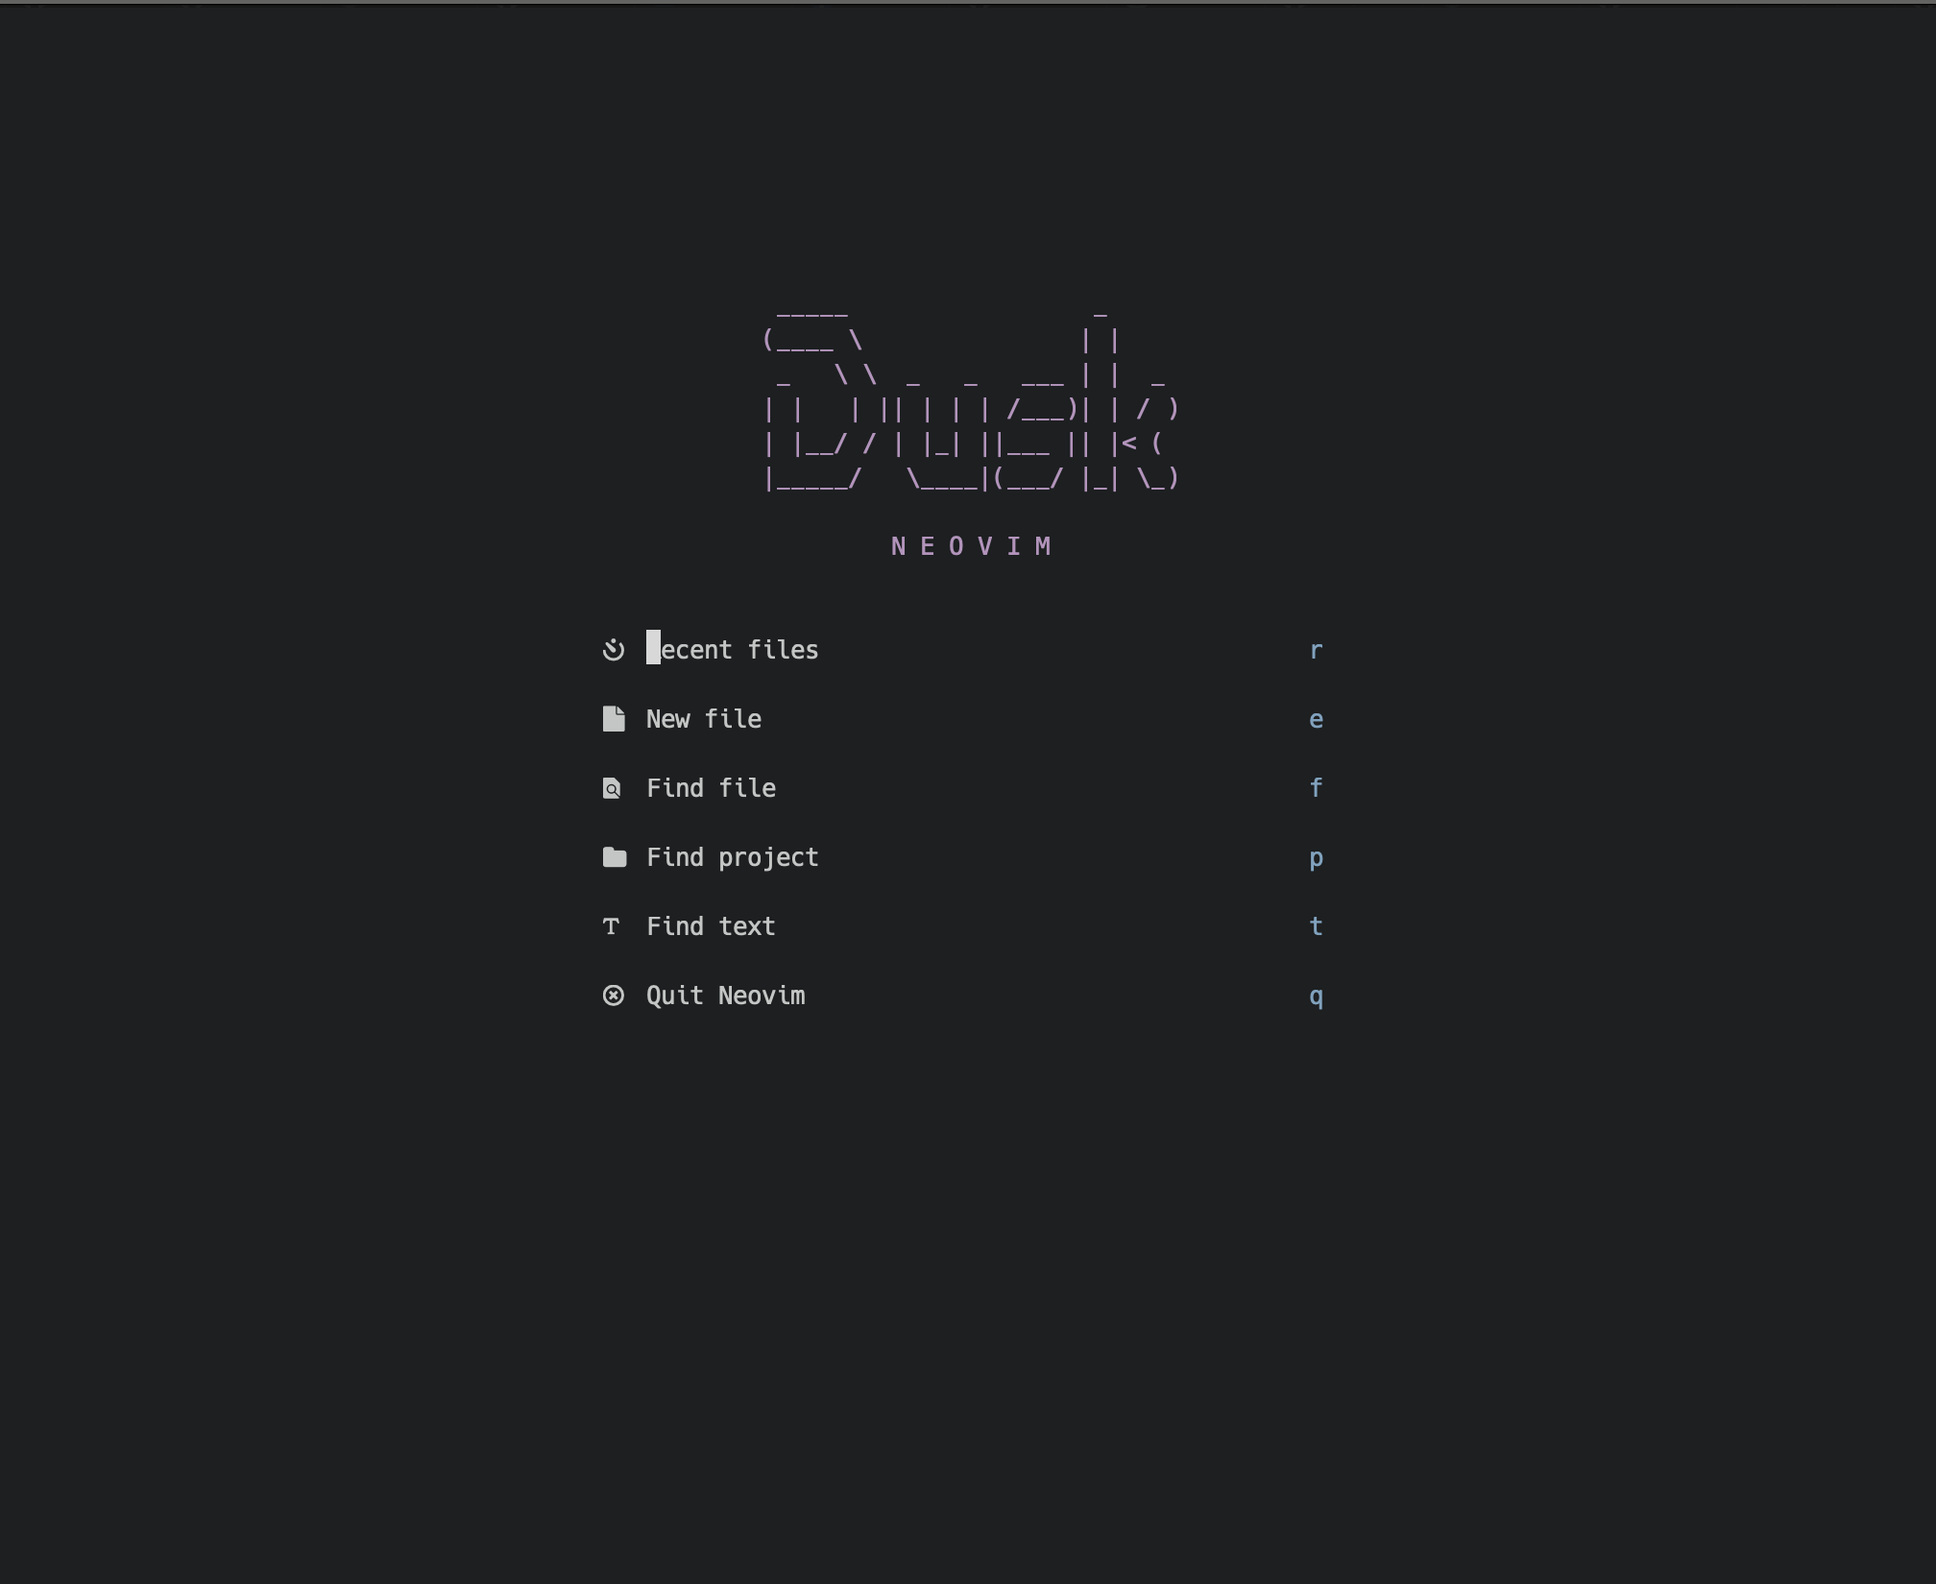
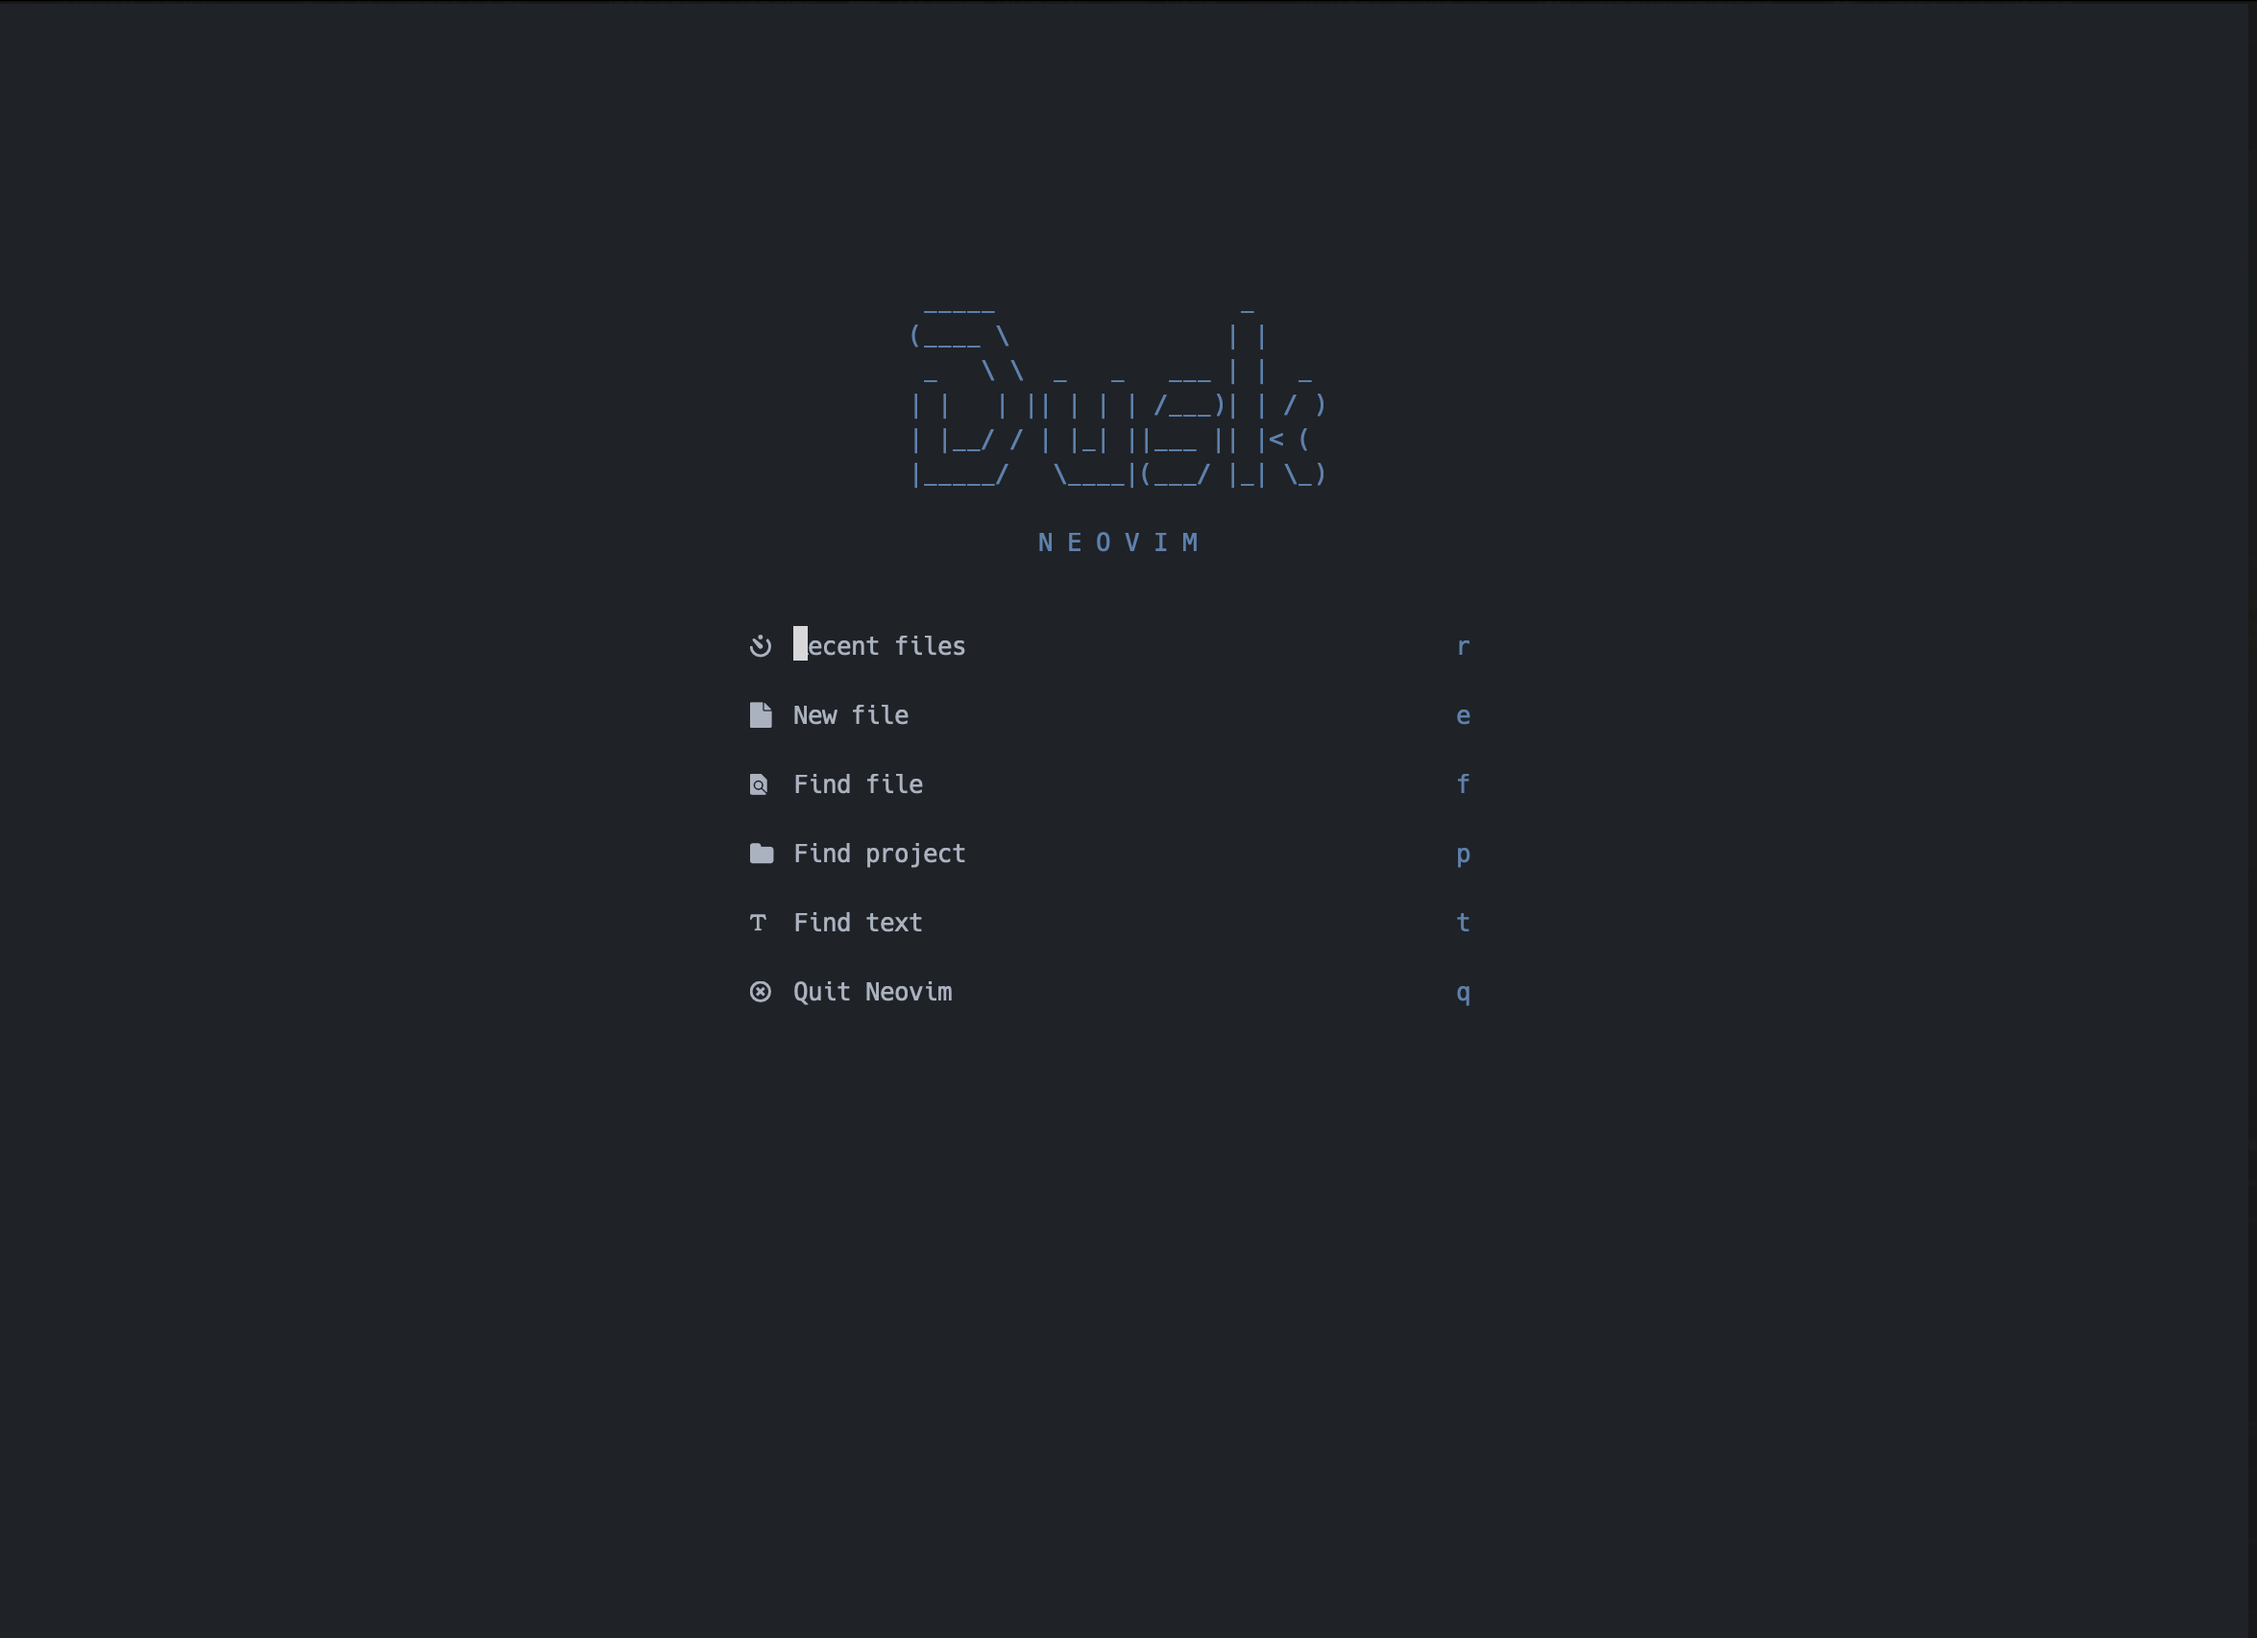
Default colorscheme=aurora

Changed region(s): [[0.3125, 0.3709, 0.4375, 0.6491], [0.4062, 0.2164, 0.5938, 0.34], [0.4062, 0.1855, 0.4375, 0.2164]]

diff --git a/README.md b/README.md
@@ -41,7 +41,7 @@ I encourage you to try out this config and adjust it to your preferences.
 
 Supported colorschemes are:
 
-1. All the colorschemes from https://github.com/LunarVim/Colorschemes (default is ferrum)
+1. All the colorschemes from https://github.com/LunarVim/Colorschemes (default is aurora)
 2. All base16 themes.
 3. Doom-one (port from doom-emacs).
 4. Nightfox.
@@ -87,8 +87,7 @@ NOTE: Run :checkhealth command to see what other dependencies you might be missi
 
 ## Credits
 
-1. Kudos to https://github.com/ChristianChiarulli/nvim for providing the configuration for the Java Language server.
-2. Aesthetics for Dusk were inspired by https://github.com/shaunsingh/nyoom.nvim.
+Kudos to https://github.com/ChristianChiarulli/nvim for providing the configuration for the Java Language server.
 
 ## Miscellaneous
 
@@ -154,7 +153,7 @@ Release version
 
 1. Migrated to mason.nvim (https://github.com/williamboman/mason.nvim/) from nvim-lsp-installer.
 2. Added jaq code runner (https://github.com/is0n/jaq-nvim).
-3. Changed default colorscheme (from base16-twilight to ferrum).
+3. Changed default colorscheme (from base16-twilight to aurora).
 4. Added more colorschemes to choose from (nightfox and oxocarbon-lua).
 5. Show absolute code line numbers by default.
 6. Removed code line indicator from statusline as unneccesary.
